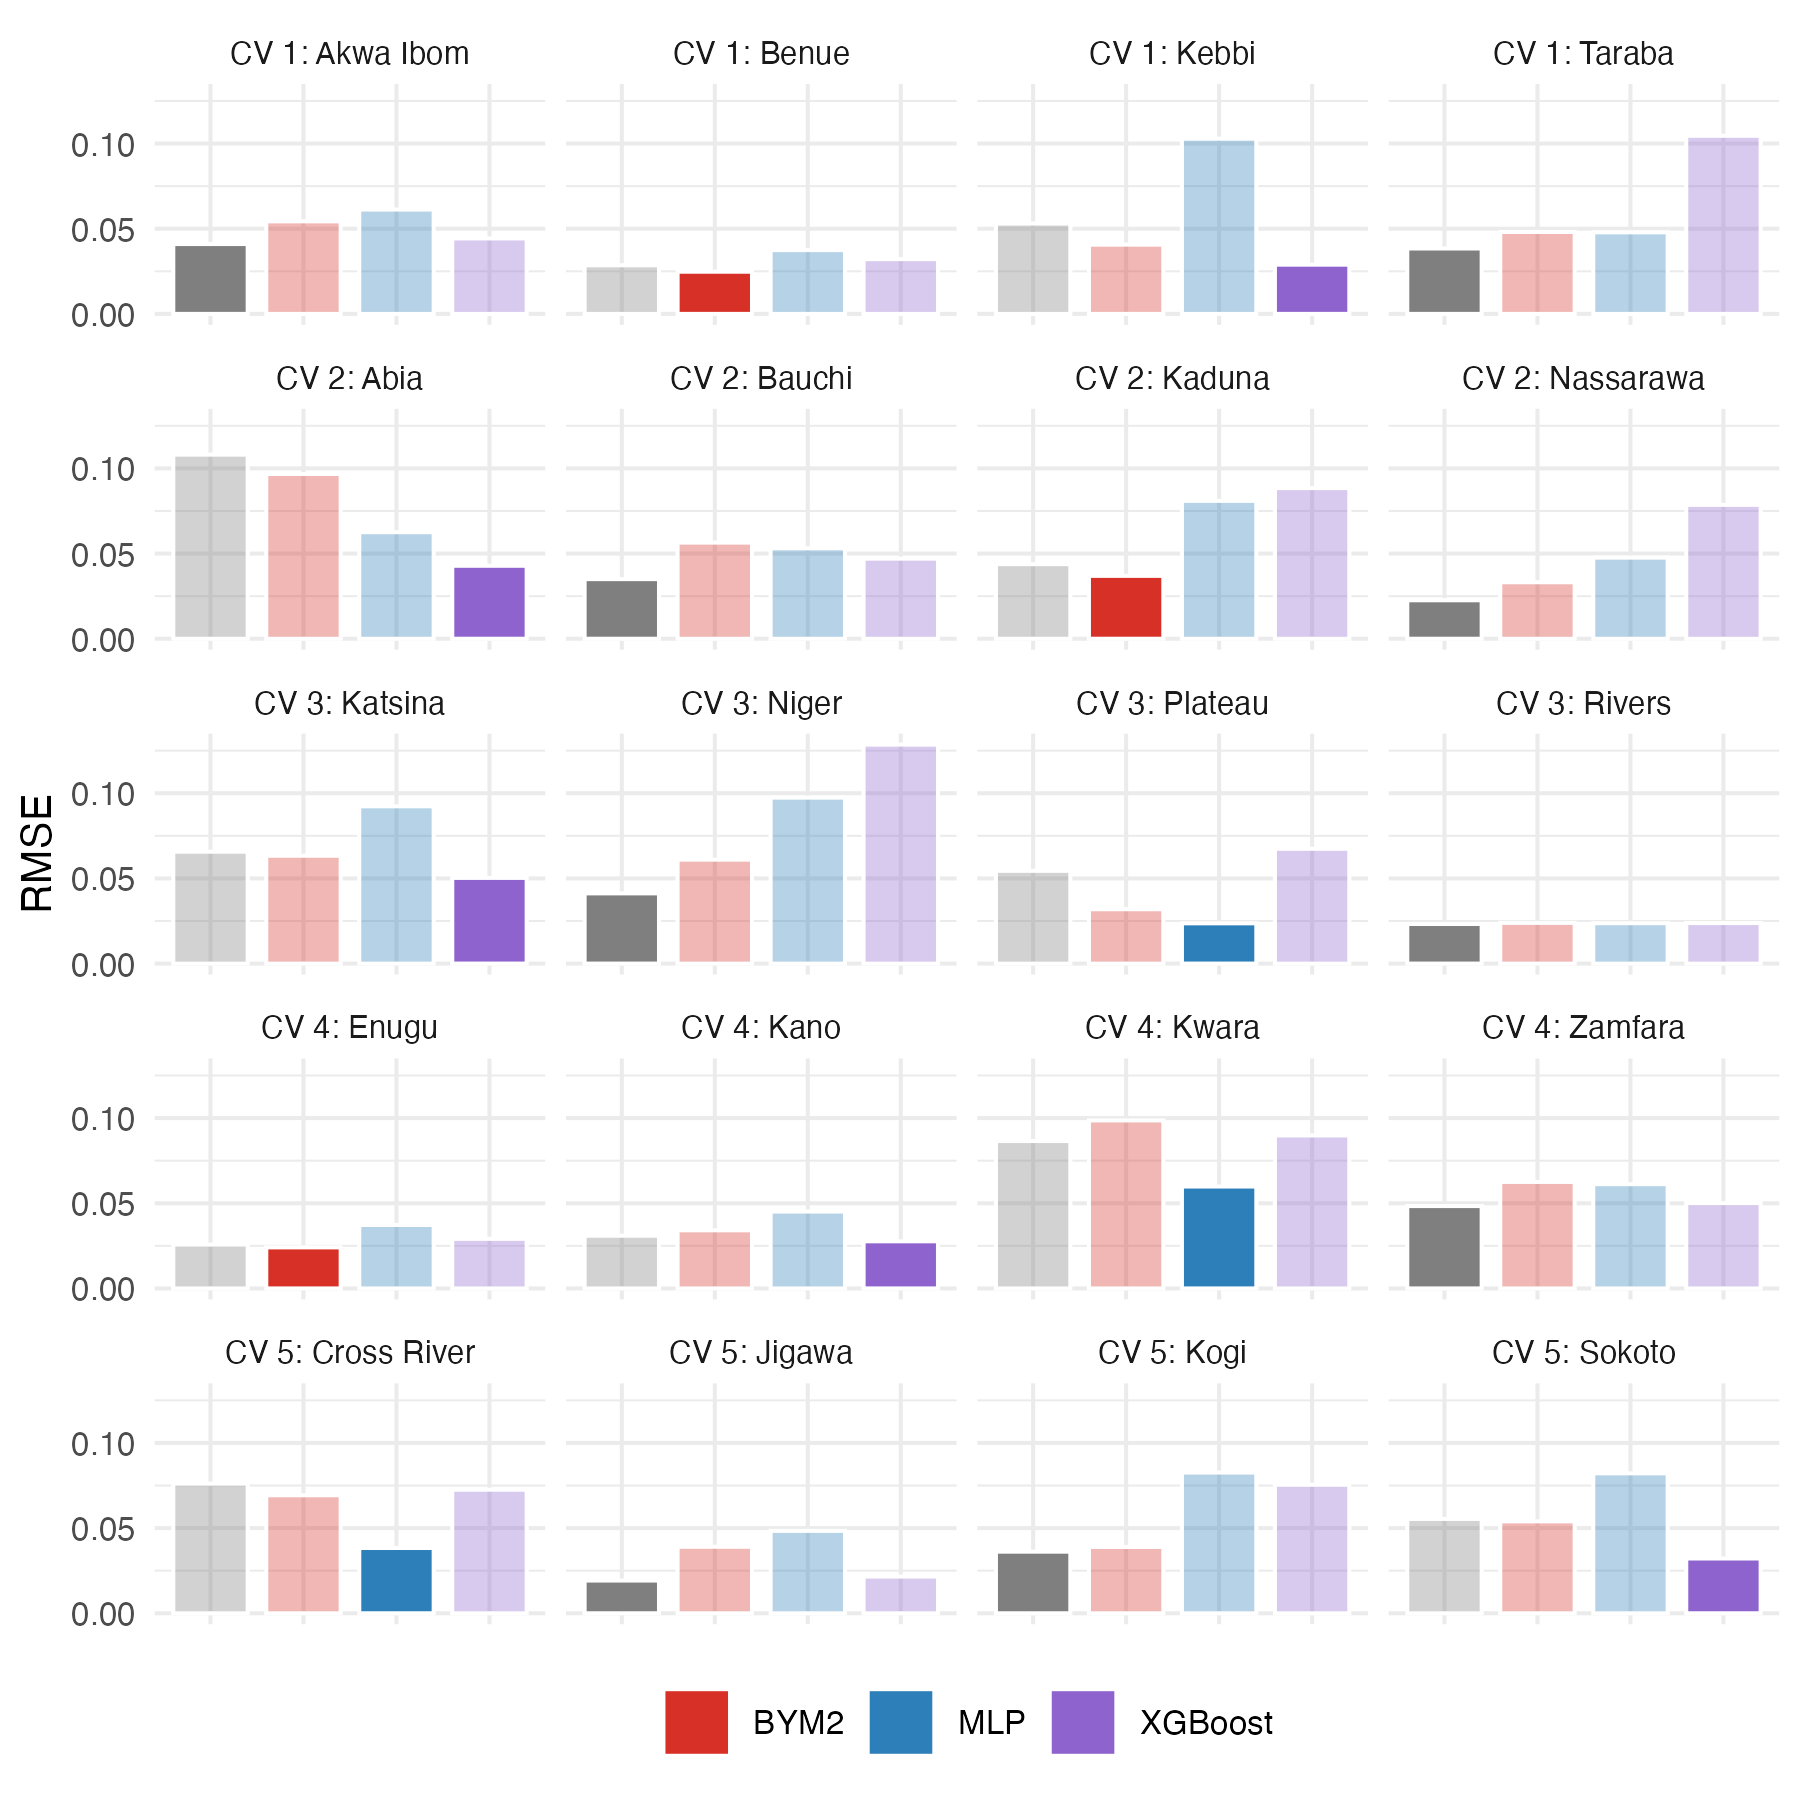
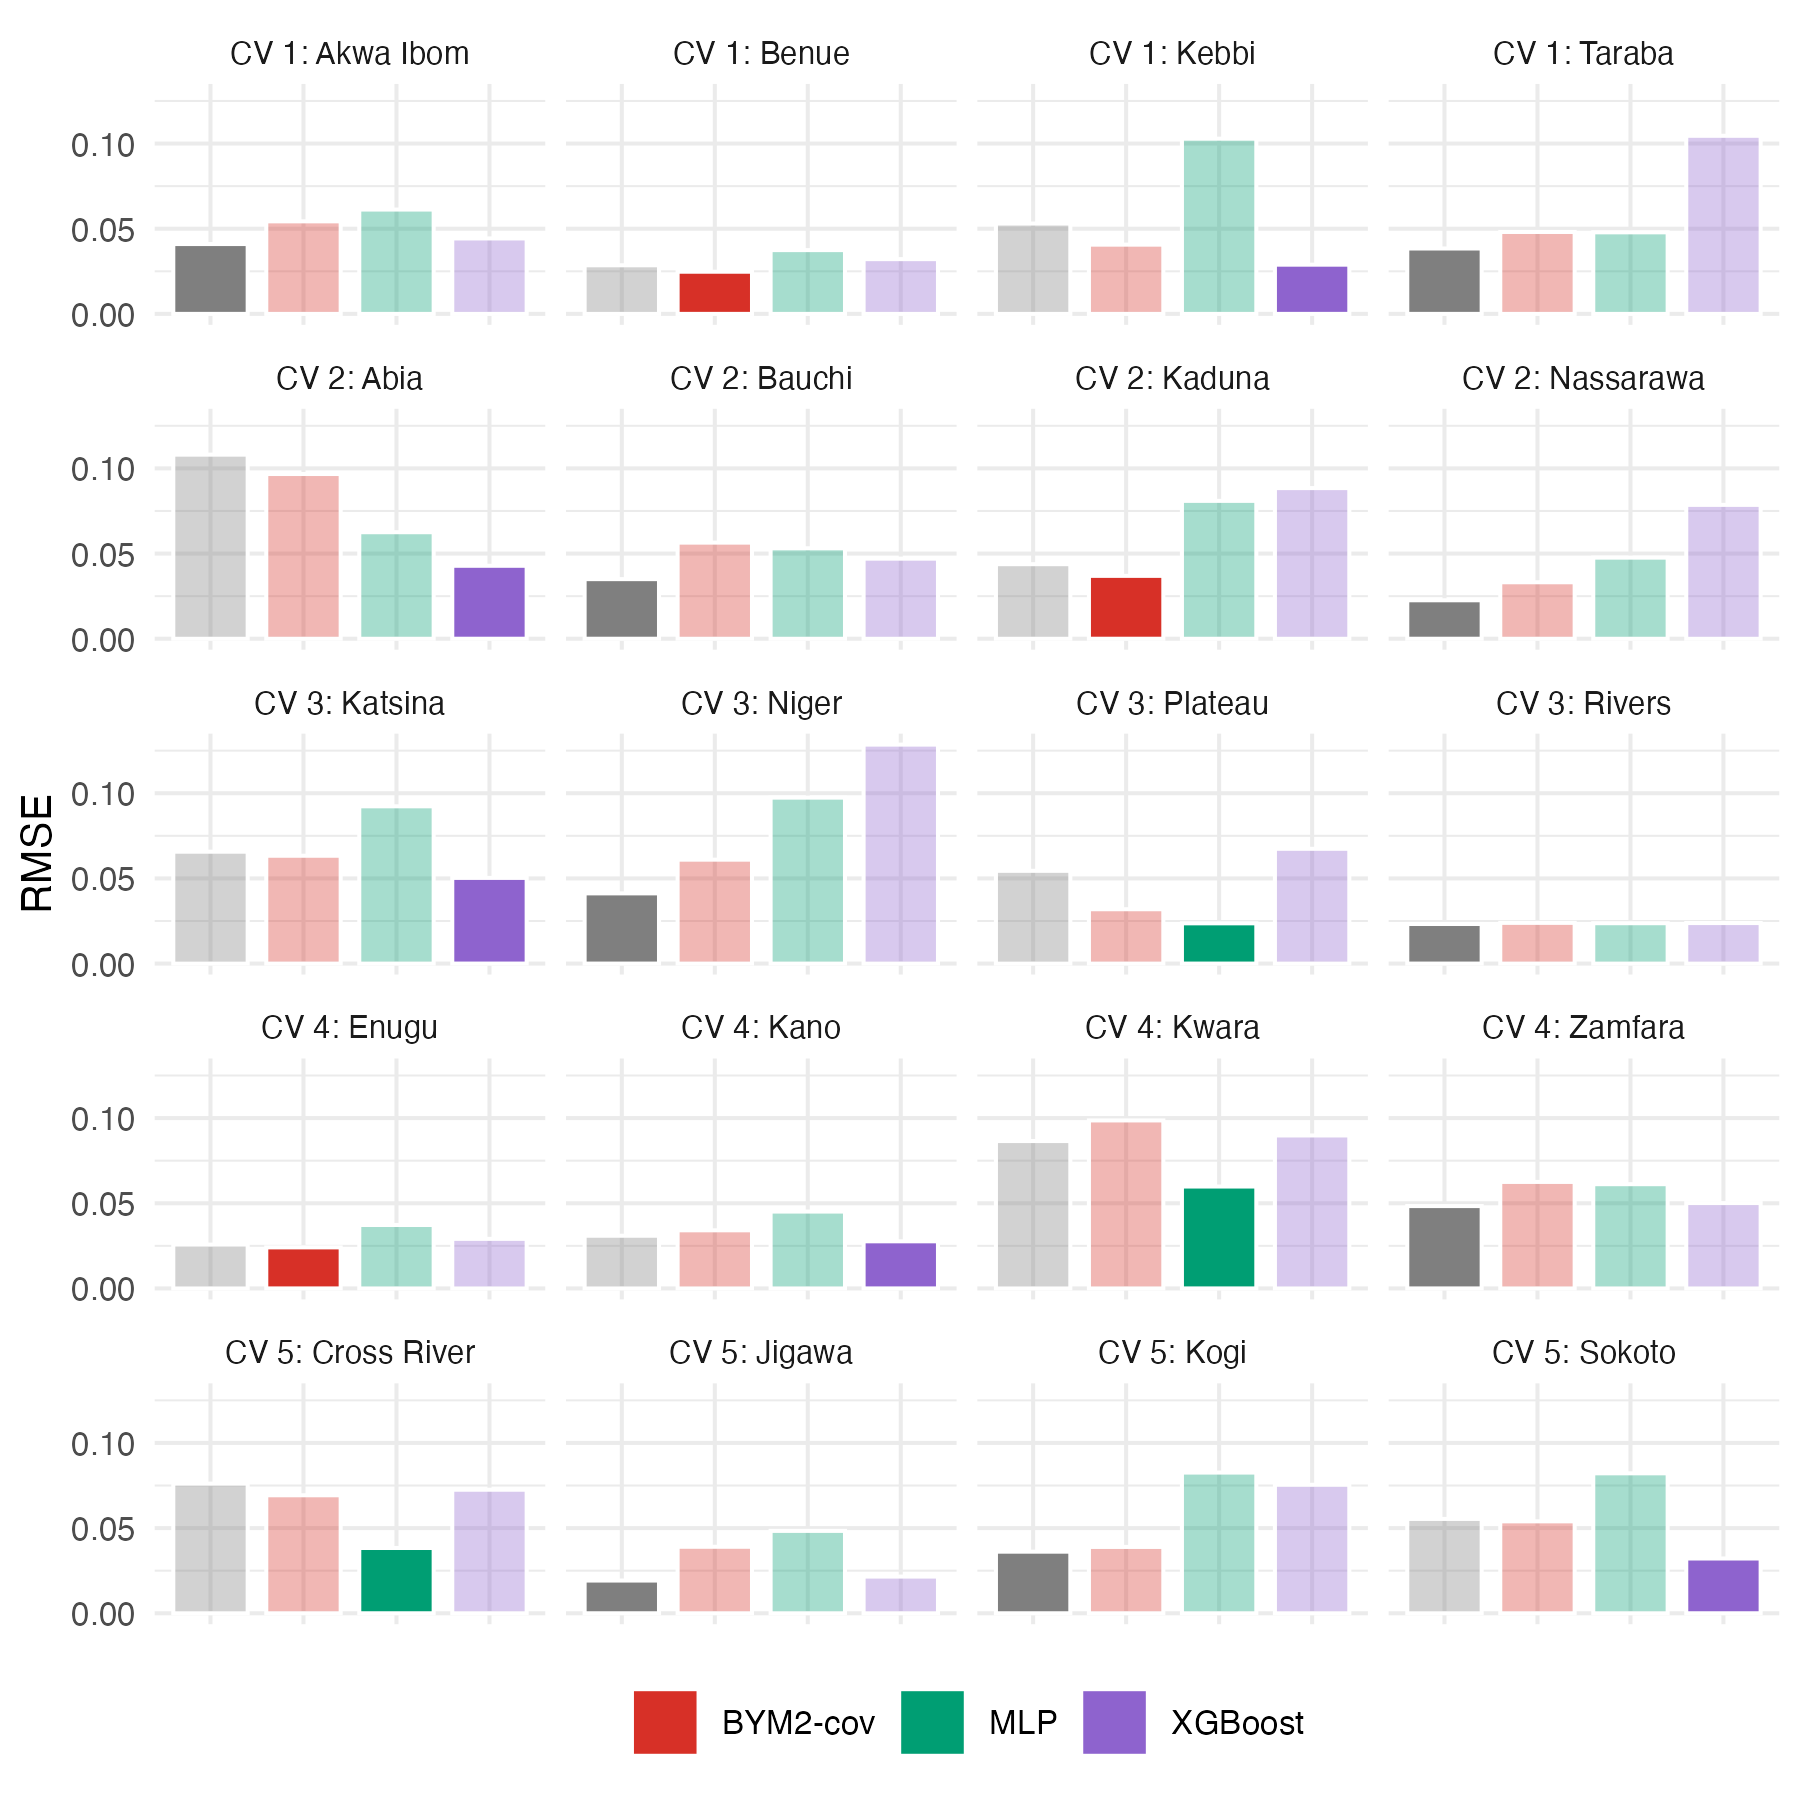
changed figures

diff --git a/output/tables/prediction_metrics_combined.tex b/output/tables/prediction_metrics_combined.tex
@@ -8,14 +8,14 @@
     \cmidrule(lr){5-7}
     Country & Model & RMSE & MAE & Coverage & MIL & Interval Score & CRPS \\
     \midrule
-    Nigeria & Bayesian Ridge with BYM2 & 0.050 & 0.043 & 96.1\% & 0.242 & 0.265 & 0.030 \\
+    Nigeria & BYM2-cov & 0.050 & 0.043 & 96.1\% & 0.242 & 0.265 & 0.030 \\
      & \GPst{} & 0.074 & 0.069 & 100\% & 0.476 & 0.476 & 0.047 \\
      & \GPcov{} & 0.047 & 0.042 & 98.7\% & 0.344 & 0.353 & 0.032 \\
      & \GPcovoc{} & 0.047 & 0.041 & 95.5\% & 0.268 & 0.307 & 0.032 \\
      & MLP & 0.059 & 0.051 & 75.7\% & 0.169 & -- & -- \\
      & XGBoost & 0.057 & 0.049 & 27.9\% & 0.039 & -- & -- \\
     \midrule
-    Chad & Bayesian Ridge with BYM2 & 0.060 & 0.050 & 96.2\% & 0.253 & 0.277 & 0.036 \\
+    Chad & BYM2-cov & 0.060 & 0.050 & 96.2\% & 0.253 & 0.277 & 0.036 \\
      & \GPst{} & 0.055 & 0.049 & 99.8\% & 0.298 & 0.298 & 0.036 \\
      & \GPcov{} & 0.047 & 0.041 & 99.8\% & 0.243 & 0.244 & 0.029 \\
      & \GPcovoc{} & 0.046 & 0.040 & 94.8\% & 0.195 & 0.226 & 0.028 \\
